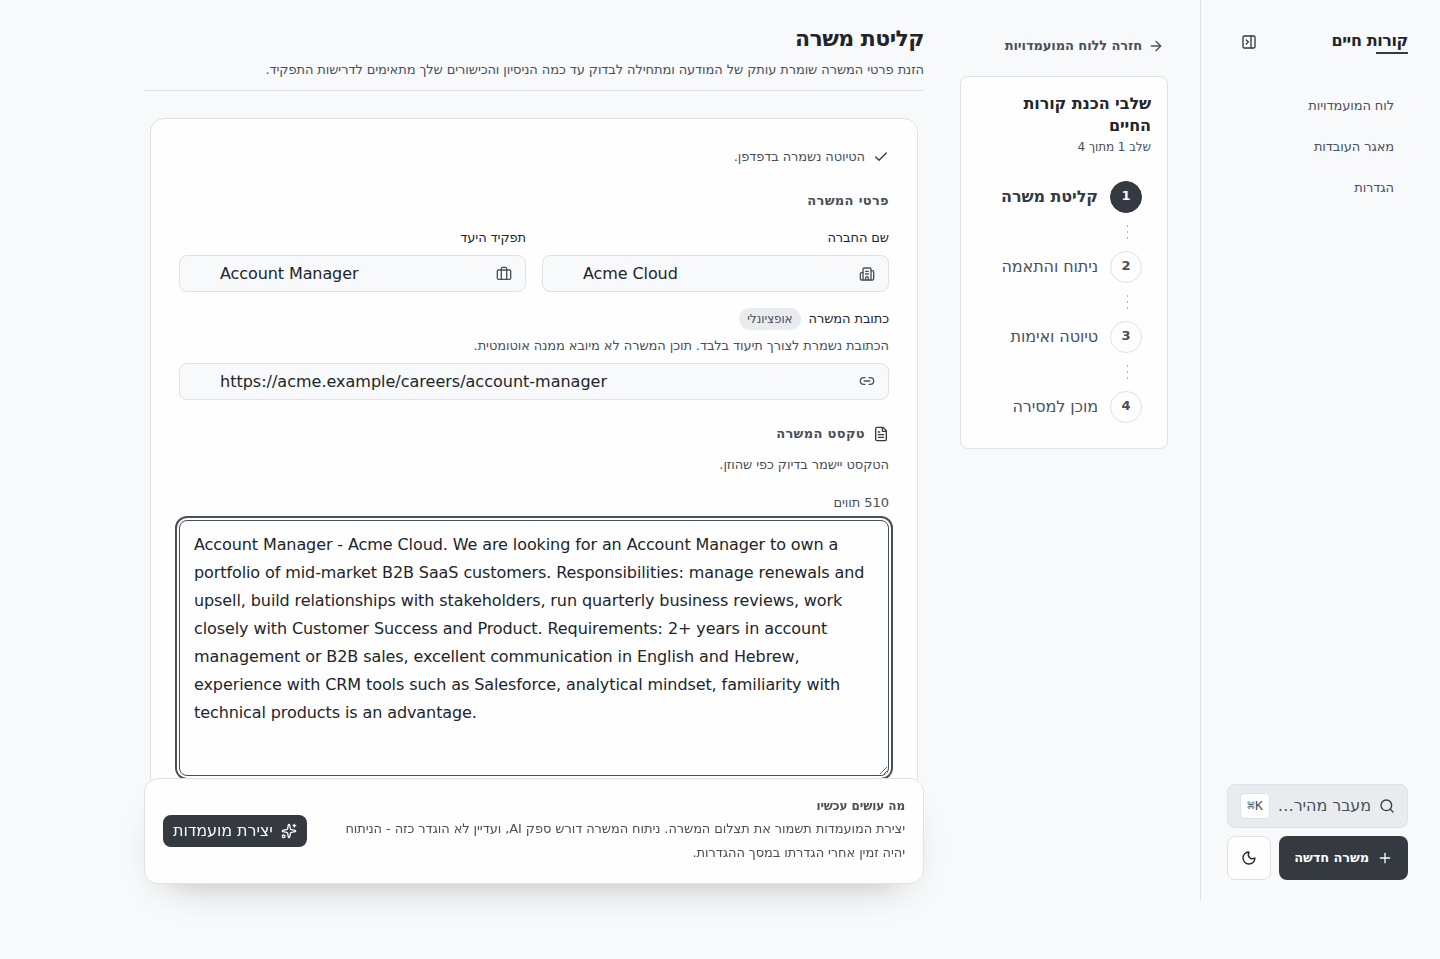
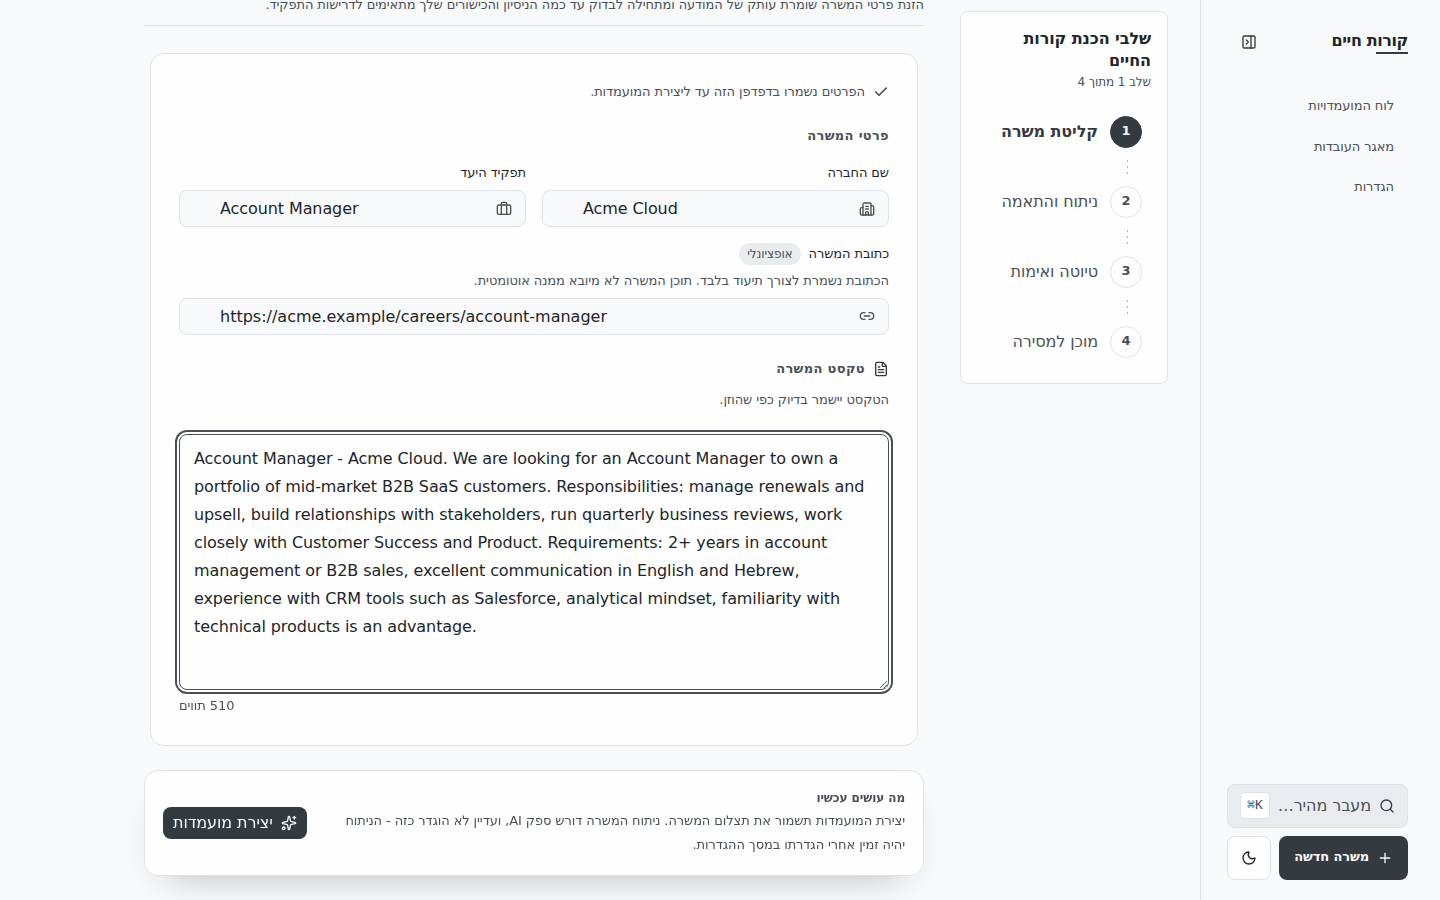
Intake: browser-save messages say "details", not "draft"; counter under the text
- "טיוטה" is the CV draft everywhere else in the product. The intake's browser-save
  messages now speak of the entered details, and the saved message keeps the scope it
  had before typing: this browser, until the application is created.
- The character counter sits under the job text at its end, instead of alone on a
  row above it.
- Screen 02 is now captured as a scrolled viewport; a full-page capture drew the
  sticky bar over content that it does not cover in a real window.

Claude-Session: https://claude.ai/code/session_017VWSom5UTdr8gTcfqrSNap

diff --git a/frontend/src/features/application-intake/components/JobTextField.tsx b/frontend/src/features/application-intake/components/JobTextField.tsx
@@ -50,30 +50,29 @@ export const JobTextField = ({ error, jobText, onInputChanged, register }: JobTe
     >
       <Field
         error={error}
-        label={
-          /* The section title already shows the field's name; the label keeps it for the
-             control's accessible name without drawing it a second time. */
-          <span className="flex w-full items-baseline justify-end gap-4">
-            <span className="sr-only">טקסט המשרה</span>
-            {counter}
-          </span>
-        }
+        /* The section title already shows the field's name; the label keeps it for the
+           control's accessible name without drawing it a second time. */
+        label={<span className="sr-only">טקסט המשרה</span>}
       >
         {(control) => (
-          <Textarea
-            {...control}
-            {...register("job_text", {
-              onChange: () => onInputChanged("job_text"),
-              validate: {
-                required: (value) => value.trim() !== "" || "יש להזין את טקסט המשרה.",
-                withinBudget: (value) =>
-                  isJobTextWithinBudget(value) || "טקסט המשרה חורג מהגודל המותר. יש לקצר אותו לפני יצירת המועמדות.",
-              },
-            })}
-            className="rtl-placeholder h-64 max-h-[55vh]"
-            dir="auto"
-            placeholder="הדבק כאן את תיאור המשרה…"
-          />
+          <>
+            <Textarea
+              {...control}
+              {...register("job_text", {
+                onChange: () => onInputChanged("job_text"),
+                validate: {
+                  required: (value) => value.trim() !== "" || "יש להזין את טקסט המשרה.",
+                  withinBudget: (value) =>
+                    isJobTextWithinBudget(value) || "טקסט המשרה חורג מהגודל המותר. יש לקצר אותו לפני יצירת המועמדות.",
+                },
+              })}
+              className="rtl-placeholder h-64 max-h-[55vh]"
+              dir="auto"
+              placeholder="הדבק כאן את תיאור המשרה…"
+            />
+            {/* Under the text it counts, at its end, rather than alone on a row above it. */}
+            {counter === null ? null : <p className="self-end text-support">{counter}</p>}
+          </>
         )}
       </Field>
     </FormSection>

diff --git a/frontend/src/features/application-intake/pages/NewApplicationPage.test.tsx b/frontend/src/features/application-intake/pages/NewApplicationPage.test.tsx
@@ -219,7 +219,7 @@ describe("NewApplicationPage", () => {
 
     renderPage();
 
-    expect(screen.getByText("טיוטה קודמת שוחזרה מהדפדפן.")).toBeInTheDocument();
+    expect(screen.getByText("פרטים שהוזנו קודם שוחזרו מהדפדפן הזה.")).toBeInTheDocument();
     expect(screen.getByLabelText("שם החברה")).toHaveValue(" Acme Israel ");
     expect(screen.getByLabelText("תפקיד היעד")).toHaveValue("Platform Engineer");
     expect(screen.getByLabelText("כתובת המשרה")).toHaveValue("https://example.com/jobs/platform");
@@ -266,7 +266,7 @@ describe("NewApplicationPage", () => {
     fillIntake("Keep this posting even when storage is full");
 
     expect(
-      await screen.findByText("לא ניתן לשמור את הטיוטה בדפדפן. אין לסגור את העמוד לפני השליחה."),
+      await screen.findByText("לא ניתן לשמור את הפרטים בדפדפן. אין לסגור את העמוד לפני יצירת המועמדות."),
     ).toBeInTheDocument();
     expect(jobTextArea()).toHaveValue("Keep this posting even when storage is full");
     const closing = new Event("beforeunload", { cancelable: true });

diff --git a/frontend/src/features/application-intake/components/IntakeDraftStatus.tsx b/frontend/src/features/application-intake/components/IntakeDraftStatus.tsx
@@ -6,10 +6,10 @@ import type { IntakeDraftStatus as Status } from "../hooks/useApplicationIntakeD
 
 const labels: Record<Status, string> = {
   idle: "הטופס נשמר אוטומטית בדפדפן הזה עד ליצירת המועמדות.",
-  restored: "טיוטה קודמת שוחזרה מהדפדפן.",
-  saving: "שומר טיוטה בדפדפן…",
-  saved: "הטיוטה נשמרה בדפדפן.",
-  failed: "לא ניתן לשמור את הטיוטה בדפדפן. אין לסגור את העמוד לפני השליחה.",
+  restored: "פרטים שהוזנו קודם שוחזרו מהדפדפן הזה.",
+  saving: "שומר את הפרטים בדפדפן הזה…",
+  saved: "הפרטים נשמרו בדפדפן הזה עד ליצירת המועמדות.",
+  failed: "לא ניתן לשמור את הפרטים בדפדפן. אין לסגור את העמוד לפני יצירת המועמדות.",
 };
 
 export const IntakeDraftStatus = ({ status }: { status: Status }) => {
